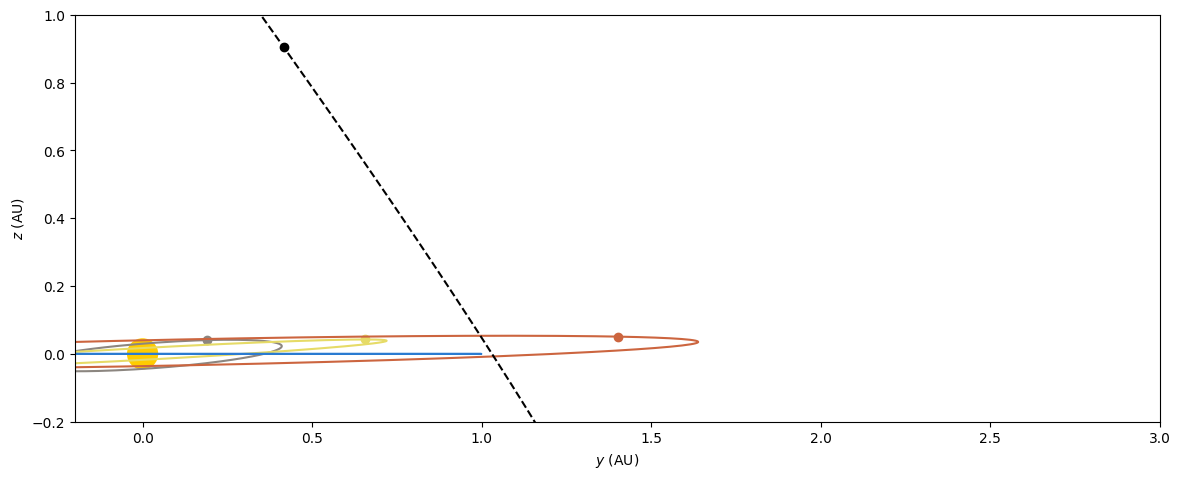
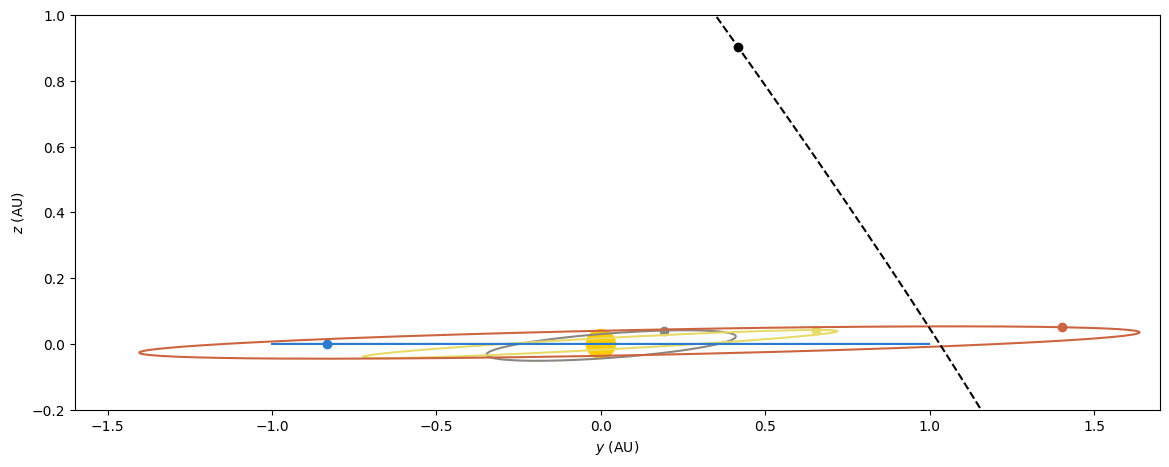
feat: improvements

diff --git a/src/01_background/discovered_objects.tex b/src/01_background/discovered_objects.tex
@@ -23,7 +23,7 @@ different perspectives.
 
 \begin{figure}[H]
   \centering
-  \includegraphics[width=0.95\textwidth]{static/oumuamua/orbit.png}
+  \includegraphics[width=0.95\textwidth]{static/oumuamua/orbit_xy.png}
   \caption[Top view of the orbit of 1I/'Oumuamua through the solar system]{
     Top view of the orbit of 1I/'Oumuamua through the solar system at the time when it was
     discovered. The interloper presented a perihelion distance of 0.25 AU,
@@ -35,24 +35,24 @@ different perspectives.
 
 \begin{figure}[H]
   \centering
-  \includegraphics[width=0.95\textwidth]{static/oumuamua/orbit_yz.png}
-  \caption[Front view of the orbit of 1I/'Oumuamua through the solar system]
-  {
+  \includegraphics[width=0.95\textwidth]{static/oumuamua/orbit_xz.png}
+  \caption[Front view of the orbit of 1I/'Oumuamua through the solar system]{
     Front view of the orbit of 1I/'Oumuamua through the solar system at the time when it was
-    discovered. This perspective allows to visualize the retrograde motion of
-    'Oumuamua as it passes through the solar system.
-  }
-  \label{fig:oumuamua_orbit_yz}
+    discovered. This perspective allows to visualize the high inclination of
+    'Oumuamua as it passes through the solar system.}
+  \label{fig:oumuamua_orbit_xz}
 \end{figure}
 
 \begin{figure}[H]
   \centering
-  \includegraphics[width=0.95\textwidth]{static/oumuamua/orbit_xz.png}
-  \caption[Side view of the orbit of 1I/'Oumuamua through the solar system]{
+  \includegraphics[width=0.95\textwidth]{static/oumuamua/orbit_yz.png}
+  \caption[Side view of the orbit of 1I/'Oumuamua through the solar system]
+  {
     Side view of the orbit of 1I/'Oumuamua through the solar system at the time when it was
-    discovered. This perspective allows to visualize the high inclination of
-    'Oumuamua as it passes through the solar system.}
-  \label{fig:oumuamua_orbit_xz}
+    discovered. This perspective allows to visualize the retrograde motion of
+    'Oumuamua as it passes through the solar system.
+  }
+  \label{fig:oumuamua_orbit_yz}
 \end{figure}
 
 'Oumuamua's orbit was calculated to be highly eccentric, with an eccentricity of
@@ -131,7 +131,7 @@ at the moment of its discovery.
 
 \begin{figure}[H]
   \centering
-  \includegraphics[width=0.95\textwidth]{static/borisov/orbit.png}
+  \includegraphics[width=0.95\textwidth]{static/borisov/orbit_xy.png}
   \caption[Top view of the orbit of 2I/Borisov through the solar system]{
     Top view of the orbit of 2I/Borisov through the solar system. Its eccentricity is
     close to 3.36, making it the most eccentric object observed up to date
@@ -145,8 +145,8 @@ at the moment of its discovery.
 \begin{figure}[H]
   \centering
   \includegraphics[width=0.95\textwidth]{static/borisov/orbit_xz.png}
-  \caption[Side view of the orbit of 2I/Borisov through the solar system]{
-    Side view of the orbit of 2I/Borisov through the solar system. Despite the
+  \caption[Front view of the orbit of 2I/Borisov through the solar system]{
+    Front view of the orbit of 2I/Borisov through the solar system. Despite the
     apparent close distance with the Martian planet, this view shows that both
     celestial objects were actually far from each other.}
   \label{fig:borisov_orbit_xz}
@@ -155,8 +155,8 @@ at the moment of its discovery.
 \begin{figure}[H]
   \centering
   \includegraphics[width=0.95\textwidth]{static/borisov/orbit_yz.png}
-  \caption[Front view of the orbit of 2I/Borisov through the solar system]{
-    Front view of the orbit of 2I/Borisov through the solar system. Even if this
+  \caption[Side view of the orbit of 2I/Borisov through the solar system]{
+    Side view of the orbit of 2I/Borisov through the solar system. Even if this
     view suggests that Borisov could have a high inclination, the value for this
     parameter was not as high as the one for the first discovered interloper.}
   \label{fig:borisov_orbit_yz}

diff --git a/src/00_introduction/software_used.tex b/src/00_introduction/software_used.tex
@@ -6,18 +6,14 @@ and software. In this project, the following software were used:
 \href{https://www.ansys.com/products/missions/ansys-stk}{Ansys Systems Tool Kit
   (STK)}.
 
-poliastro is an open-source Python library for astrodynamics. It provides tools
-focused on the analysis and design of orbits. It is built on top of other
-popular libraries such us \href{https://github.com/astropy/astropy}{Astropy} and
-\href{https://github.com/numpy/numpy}{NumPy}. Despite poliastro being archived,
-the author is a former maintainer of the project. This allowed him to build a
-set of custom numerical routines and improvements on top of the original source
-code.
-
-Main capabilities used from poliastro include the generation of scientific
-figures for visualizing orbits, ephemerides, and porkchop plots. For these last
-figures, their original source code was parallelized to maximize the
-performance, reducing computation times.
+The Python library named poliastro focuses on astrodynamics and orbital
+mechanics. It provides tools focused on the analysis and design of orbits.
+Despite poliastro being archived, the author is a former maintainer of the
+project. This allowed the author to build a set of custom numerical routines and
+improvements on top of the original source code. Main capabilities from
+poliastro include orbit visualization, ephemerides manipulation, and porkchop
+plots among many others. For these last figures, their original source code was
+parallelized to maximize the performance, reducing computation times.
 
 \vspace{1cm}
 \begin{figure}[H] \centering
@@ -32,11 +28,9 @@ STK, on the other hand, is a commercial software that provides a set of tools
 that extend beyong astrodynamic calculations. It is used for mission analysis,
 allowing customers to design, analyze, and visualize complex systems. Its
 outstanding performance, accuracy, visualization, and animation capabilities
-make this tool a standard in the aerospace industry.
-
-Main capabilities used from STK include validation of results and animations.
-Regarding animations, these are presented in the slides acompanying the defense
-of this project.
+make this tool a standard in the aerospace industry. Main capabilities used from
+STK include validation of results and animations. Regarding animations, these
+are presented in the slides acompanying the defense of this project.
 
 \vspace{1cm}
 \begin{figure}[H] \centering
@@ -47,4 +41,5 @@ of this project.
   \label{fig:stk_capabilities}
 \end{figure}
 
-
+This whole work is hosted on a public repository on GitHub.\footnote{Repository:
+\href{https://github.com/jorgepiloto/tfm}{https://github.com/jorgepiloto/tfm}}

diff --git a/src/01_background/definition.tex b/src/01_background/definition.tex
@@ -19,24 +19,23 @@ There are different mechanisms that can lead to the ejection of ISOs from their
 original system. The most common are:
 
 \begin{itemize}
-  \item \textbf{Stellar encounters}: ISOs can be ejected from their original
+  \item \textbf{Stellar encounters.} ISOs can be ejected from their original
         system due to gravitational interactions with other stars. This
         mechanism is particularly relevant in dense stellar environments, such
         as globular clusters, see \cite{eloy2022}.
 
-  \item \textbf{Planetary encounters}: Planetary encounters can also lead to
+  \item \textbf{Planetary encounters.} Planetary encounters can also lead to
         the ejection of ISOs. This mechanism is particularly relevant in
         planetary systems with large planets, such as Jupiter and Saturn, see
         \cite{kaib2011}.
 
-  \item \textbf{Stellar explosions}: Supernovae and other stellar explosions
+  \item \textbf{Stellar explosions.} Supernovae and other stellar explosions
         can also lead to the ejection of ISOs. These events can provide the
         necessary energy to eject ISOs from their original system, see
         \cite{portegies2018}.
 \end{itemize}
 
 \subsection{Abundance}
-% Citar que las abundancias estan basadas en Oumuaumua.
 The abundance of ISOs in the galaxy is still an open question due to the lack of
 enough data to make a reliable estimation. This lack of data has lead
 researchers to generate synthetic populations of ISOs to estimate density

diff --git a/src/02_targeting/mission_constraints.tex b/src/02_targeting/mission_constraints.tex
@@ -88,17 +88,8 @@ The spacecraft must be able to track the interloper and its own position
 relative to the stars background. By doing so, the spacecraft can assert if it
 is on the right orbit and if it is following the interloper correctly.
 
-However, tracking a small object in space is a challenging task. For example,
-'Oumuamua did not presented any cometary activity, having an absolute magnitude
-of $M = 22$ (JPL SBDB) which made it difficult to
-observe and track it. On the other hand, Borisov exhibited a coma, making it
-more visible by having a magnitude of $M = 16$, see \cite{jewitt2020}.
-
-These constrains are not analyzed in this work, but they are important for the
-success of the mission.
-
-\subsection{Communication constraints}
-
-Communication limits the reaction time of the spacecraft. Interlopers are
-traveling at high speeds, and the spacecraft must be able to communicate along
-astronomical distances.
+However, tracking a small object in deep space is a challenging task. For
+example, 'Oumuamua did not presented any cometary activity, having an absolute
+magnitude of $M = 22$ (JPL SBDB) which made it difficult to observe and track
+it. On the other hand, Borisov exhibited a coma, making it more visible by
+having a magnitude of $M = 16$, see \cite{jewitt2020}.

diff --git a/src/00_introduction/objectives_and_goals.tex b/src/00_introduction/objectives_and_goals.tex
@@ -19,11 +19,11 @@ into the following key objectives:
         applied to the two discovered interstellar objects, demonstrating the
         targeting challenges considering nowadays technologies.
 
-  \item \textbf{Multiple flyby orbits.}
+  \item \textbf{Alternate targeting orbits}
         Once the direct transfer problems have been introduced, the concept of
-        flyby maneuver is presented. A custom algorithm searching for an
-        optimum transfer path is devised. Previous targeting orbits are
-        analyzed again but taking advantage of this useful maneuver.
+        Lagrangian points is presented. The analysis focuses on point L2, due
+        to its capabilities and advantages. The gravity assist technique is
+        revisited and explored.
 
   \item \textbf{Performance comparison.}
         A comparison between direct transfers and multiple flyby orbits is
@@ -31,7 +31,7 @@ into the following key objectives:
         flight, arrival excess velocity, and existing propulsive technologies
         are considered.
 
-  \item \textbf{Resuls}
+  \item \textbf{Results}
         Advantages and disadvantages of each mission are presented. Improvements
         to the custom flyby algorithm are also discussed.
 \end{itemize}

diff --git a/bin/borisov_orbit.py b/bin/borisov_orbit.py
@@ -12,15 +12,16 @@ discovery = Time("2019-08-30", scale="tdb")
 
 view_and_limits = {
     "xy": [[-3, 3], [-3, 3]],
-    "xz": [[-0.2, 3], [-0.2, 1]],
-    "yz": [[-0.2, 3], [-0.2, 1]],
+    "xz": [[-0.2, 3], [-0.2, 1.2]],
+    "yz": [[-1.6, 1.7], [-0.2, 1]],
 }
 
 for view, (xlim, ylim) in view_and_limits.items():
     plotter = plot_solar_system(epoch=discovery, outer=False,
                                 length_scale_units=u.AU,
                                 plane=Planes.EARTH_ECLIPTIC, view=view)
-    borisov_orbit_lines, _ = plotter.plot_ephem(borisov, epoch=discovery, color="black", label="2I/Borisov")
+    borisov_orbit_lines, _ = plotter.plot_ephem(borisov, epoch=discovery,
+                                                color="black", label="2I/Borisov at its discovery")
     borisov_orbit_lines.set_linestyle("--")
     plotter.backend.ax.set_xlim(xlim)
     plotter.backend.ax.set_ylim(ylim)

diff --git a/bin/oumuamua_orbit.py b/bin/oumuamua_orbit.py
@@ -20,7 +20,9 @@ for view, (xlim, ylim) in view_and_limits.items():
     plotter = plot_solar_system(epoch=discovery, outer=False,
                                 length_scale_units=u.AU,
                                 plane=Planes.EARTH_ECLIPTIC, view=view)
-    borisov_orbit_lines, _ = plotter.plot_ephem(oumuamua, epoch=discovery, color="black", label="1I/'Oumuamua")
+    borisov_orbit_lines, _ = plotter.plot_ephem(oumuamua, epoch=discovery,
+                                                color="black",
+                                                label="1I/'Oumuamua at its discovery")
     borisov_orbit_lines.set_linestyle("--")
 
     plotter.backend.ax.set_xlim(xlim)

diff --git a/src/01_background/intro.tex b/src/01_background/intro.tex
@@ -2,8 +2,8 @@
 
 In this chapter, a complete review of the state of the art of the field of
 interstellar objects is presented. This includes the definition of interstellar
-objects, their naming convention, used to refer to them, the history of the
-discovery of these objects, the solar apex and the latest advances in the field.
+objects, their naming convention, their main attributes, the history of the
+discovery of these objects, and the role of the solar apex.
 
 \input{src/01_background/definition.tex}
 \input{src/01_background/nomenclature.tex}

diff --git a/src/00_introduction/problem_description.tex b/src/00_introduction/problem_description.tex
@@ -4,7 +4,7 @@ The discovery of interstellar objects such as 'Oumuamua and Borisov within our
 solar system has ignited a surge of curiosity and scientific interest. These
 sub-kilometer-sized visitors, originating from distant stellar systems, present
 a unique opportunity to study extraterrestrial bodies that have traversed vast
-cosmic distances. Therefore, the main motivation behind the study of these
+cosmic distances. Therefore, the main motivations behind the study of these
 objects are:
 
 \begin{itemize}

diff --git a/bin/mass_vs_c3.py b/bin/mass_vs_c3.py
@@ -1,0 +1,12 @@
+from astropy import units as u
+import matplotlib.pyplot as plt
+import numpy as np
+
+
+
+LAUNCHERS_AND_ISP = {
+    "Falcon Heavy": 311 * u.s,
+    "SLS": 365 * u.s,
+}
+
+
